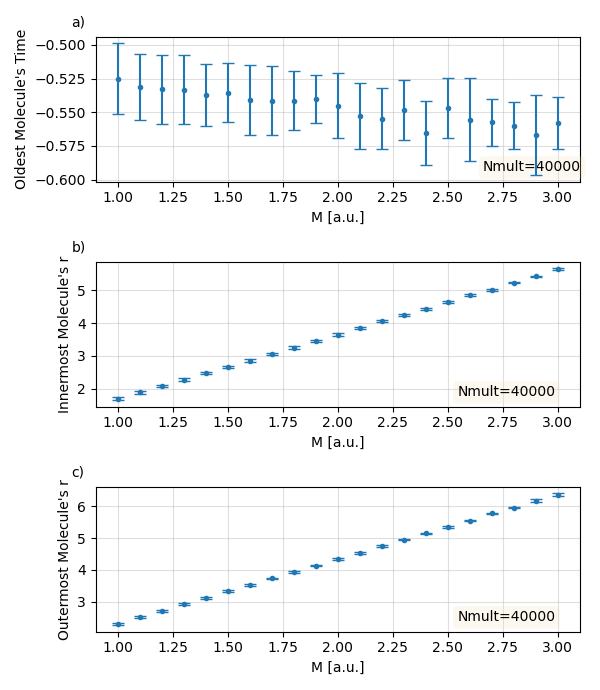
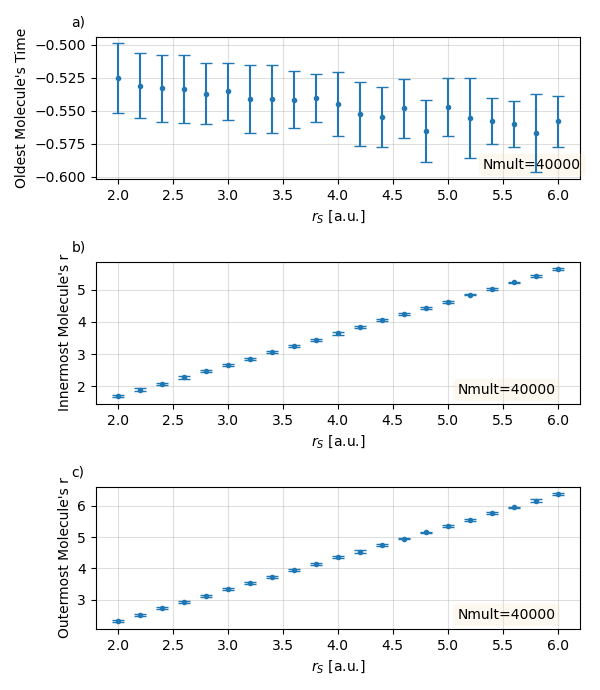
working code for molecule bounds

diff --git a/scripts_py/plot_molecule_distribution.py b/scripts_py/plot_molecule_distribution.py
@@ -168,14 +168,22 @@ if plot_boundaries:
     ax = plt.subplot(r, c, 1)
     plt.annotate ("a)", (-0.05, 1.05), xycoords = "axes fraction", 
                     va='bottom', ha = 'left')
-    plt.errorbar(varying_values, mintimes, mintimes_std, 
+    if varying_var == "M":
+        plt.errorbar(2*np.array(varying_values), mintimes,
+                mintimes_std, fmt = '.', capsize = 4, 
+                zorder = 5)
+    else:
+        plt.errorbar(np.array(varying_values), mintimes, mintimes_std, 
                 fmt = '.', capsize = 4, 
                 zorder = 5)
     props = dict(boxstyle='round', facecolor='wheat', edgecolor = 'grey', 
                 ls = '', alpha=0.2)
     ax.text(0.80, 0.05, fixed_string, transform=ax.transAxes, fontsize=10, 
             va='bottom', ha = 'left', bbox=props)
-    plt.xlabel(f'{varying_var} [a.u.]')
+    if varying_var == "M":
+        plt.xlabel(r'$r_S$ [a.u.]')
+    else:
+        plt.xlabel(f'{varying_var} [a.u.]')
     plt.ylabel("Oldest Molecule's Time")
     plt.grid(alpha = 0.4) 
 
@@ -183,15 +191,23 @@ if plot_boundaries:
     ax = plt.subplot(r, c, 2)
     plt.annotate ("b)", (-0.05, 1.05), xycoords = "axes fraction", 
                     va='bottom', ha = 'left')
-    plt.errorbar(varying_values, innermosts, innermosts_std, 
+    if varying_var == "M":
+        plt.errorbar(2*np.array(varying_values), innermosts,
+                innermosts_std, fmt = '.', capsize = 4, 
+                zorder = 5)
+    else:
+        plt.errorbar(np.array(varying_values), innermosts, innermosts_std, 
                 fmt = '.', capsize = 4, 
                 zorder = 5)
-                
+
     props = dict(boxstyle='round', facecolor='wheat', edgecolor = 'grey', 
                 ls = '', alpha=0.2)
     ax.text(0.95, 0.05, fixed_string, transform=ax.transAxes, fontsize=10, 
             va='bottom', ha = 'right', bbox=props)
-    plt.xlabel(f'{varying_var} [a.u.]')
+    if varying_var == "M":
+        plt.xlabel(r'$r_S$ [a.u.]')
+    else:
+        plt.xlabel(f'{varying_var} [a.u.]')
     plt.ylabel("Innermost Molecule's r")
     plt.grid(alpha = 0.4) 
 
@@ -199,21 +215,28 @@ if plot_boundaries:
     ax = plt.subplot(r, c, 3)
     plt.annotate ("c)", (-0.05, 1.05), xycoords = "axes fraction", 
                     va='bottom', ha = 'left')
-    plt.errorbar(varying_values, outermosts, outermosts_std, 
+    if varying_var == "M":
+        plt.errorbar(2*np.array(varying_values), outermosts,
+                outermosts_std, fmt = '.', capsize = 4, 
+                zorder = 5)
+    else:
+        plt.errorbar(np.array(varying_values), outermosts, outermosts_std, 
                 fmt = '.', capsize = 4, 
                 zorder = 5)
     props = dict(boxstyle='round', facecolor='wheat', edgecolor = 'grey', 
                 ls = '', alpha=0.2)
     ax.text(0.95, 0.05, fixed_string, transform=ax.transAxes, fontsize=10, 
             va='bottom', ha = 'right', bbox=props)
-    plt.xlabel(f'{varying_var} [a.u.]')
+    if varying_var == "M":
+        plt.xlabel(r'$r_S$ [a.u.]')
+    else:
+        plt.xlabel(f'{varying_var} [a.u.]')
     plt.ylabel("Outermost Molecule's r")
     plt.grid(alpha = 0.4) 
 
     plt.savefig(plotsDir + f"{fixed_string}_Boundaries.png")
     plt.show()
 
-print(molecules_distr_std)
 # 2.1 MOLECULES'S DISTRIBUTION ##############################################
 print("")
 if plot_molecules:
